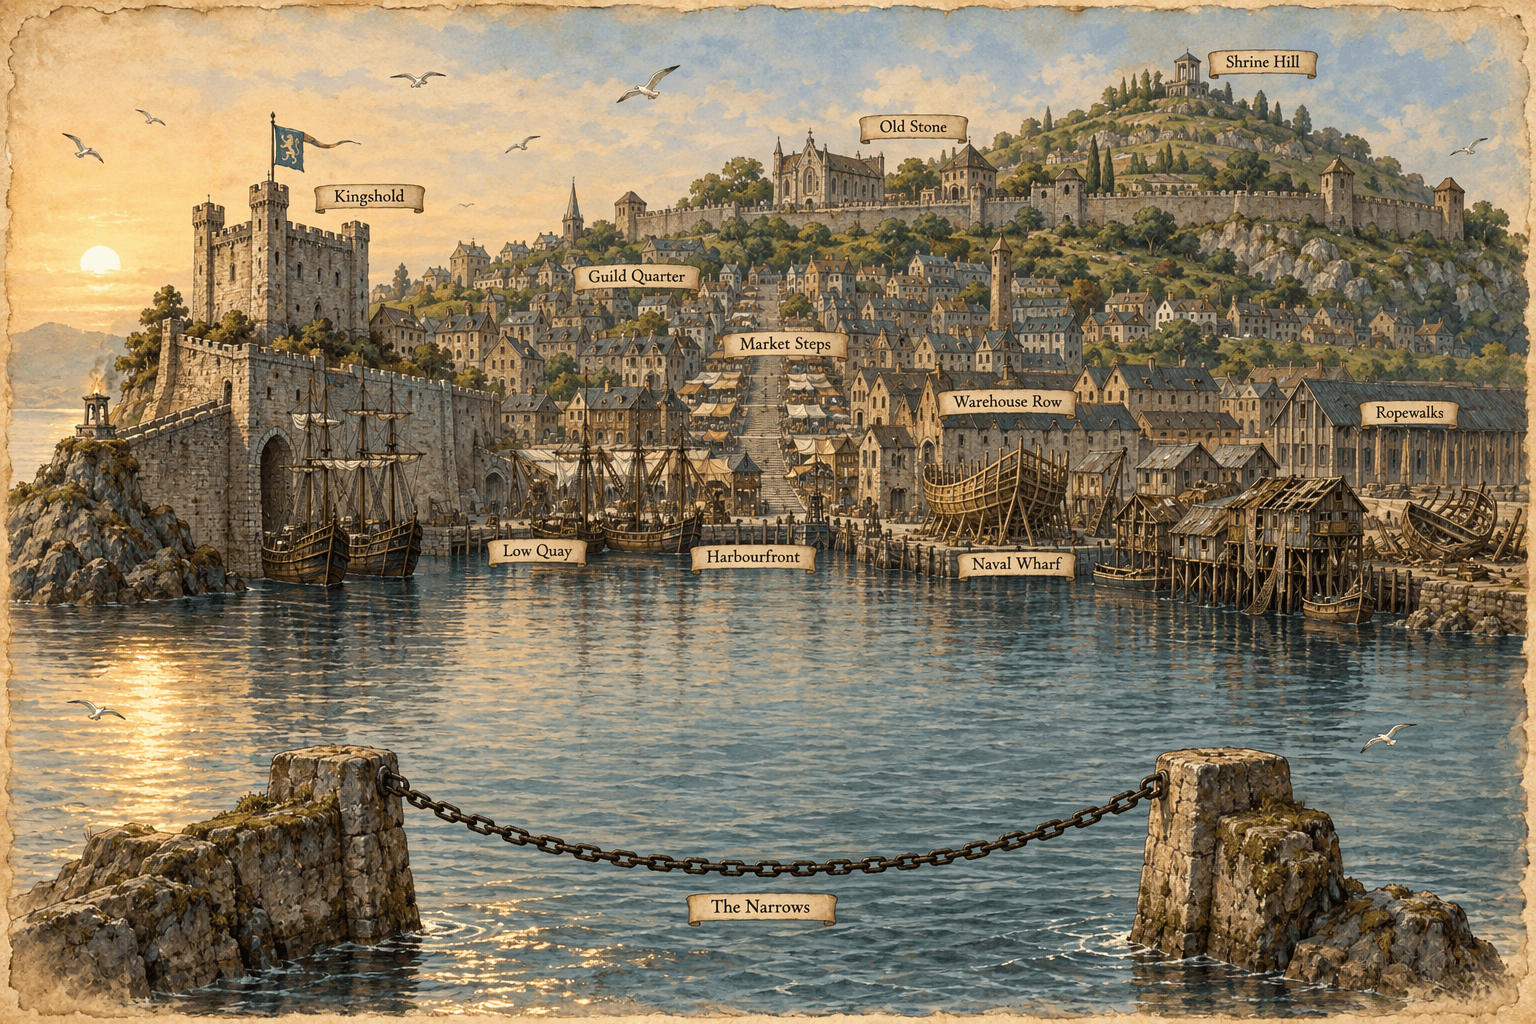
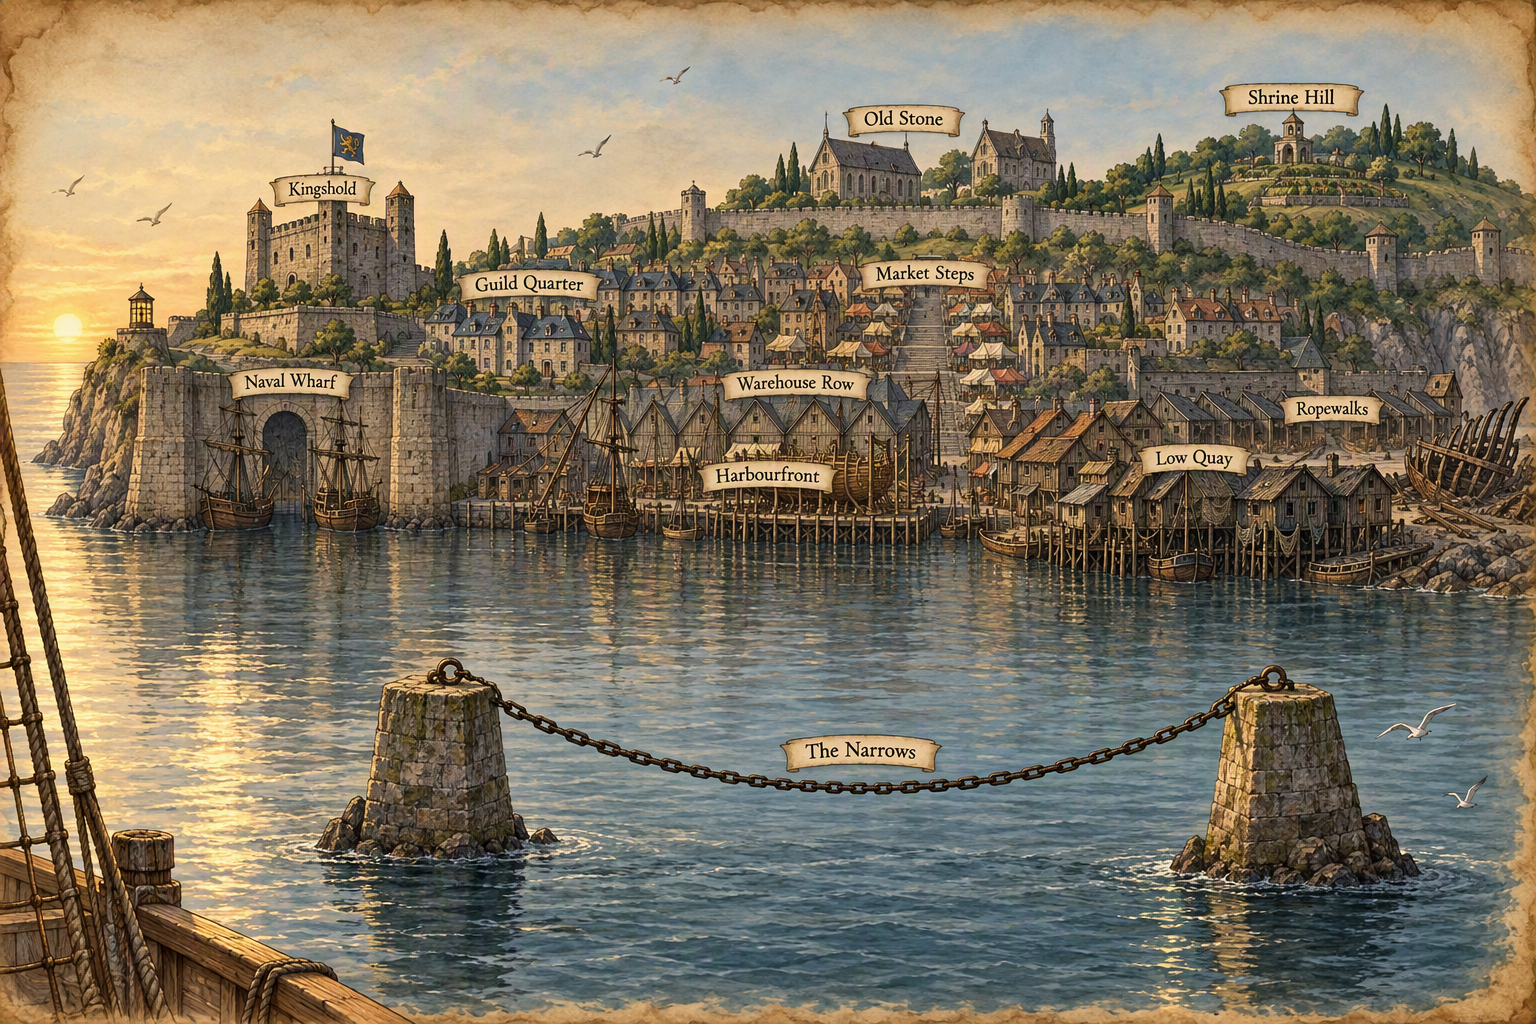
Maps: corrected harbour-mouth view
The version published on the 7th had Low Quay's banner over the central quays
and Naval Wharf's over the shipyard. This one has each banner over its own
district, and the ship's rigging in the corner so it reads as the view from the
deck. Same filename, so nothing else changes.

diff --git a/CHANGELOG.md b/CHANGELOG.md
@@ -3,6 +3,11 @@
 > One line per change/session, **newest first**. *Why* lives in `DECISIONS.md`. Not backfilled past
 > 2026-07-21 — this repo's prior history is better read via `git log` than reconstructed here.
 
+- **2026-10-11 · Maps: the harbour-mouth view replaced with a corrected one** — synced from the GM repo.
+  The version published on 2026-10-07 had two banners over the wrong districts, "Low Quay" over the central
+  quays and "Naval Wharf" over the shipyard. The replacement has every banner over its own district, and
+  adds the ship's rigging in the near corner so the view reads as being from the deck. Same filename, same
+  page, no links to change.
 - **2026-10-07 · Maps: four new ones published, and the old Stoneharbour map taken down** — synced from the
   GM repo's `D-2026-10-07-canonical-maps`. **The map players have been reading since 2026-08-27 was wrong**:
   it had the sea on the south side, no town wall, no Kingshold, no Naval Wharf, and Shrine Hill inside the
